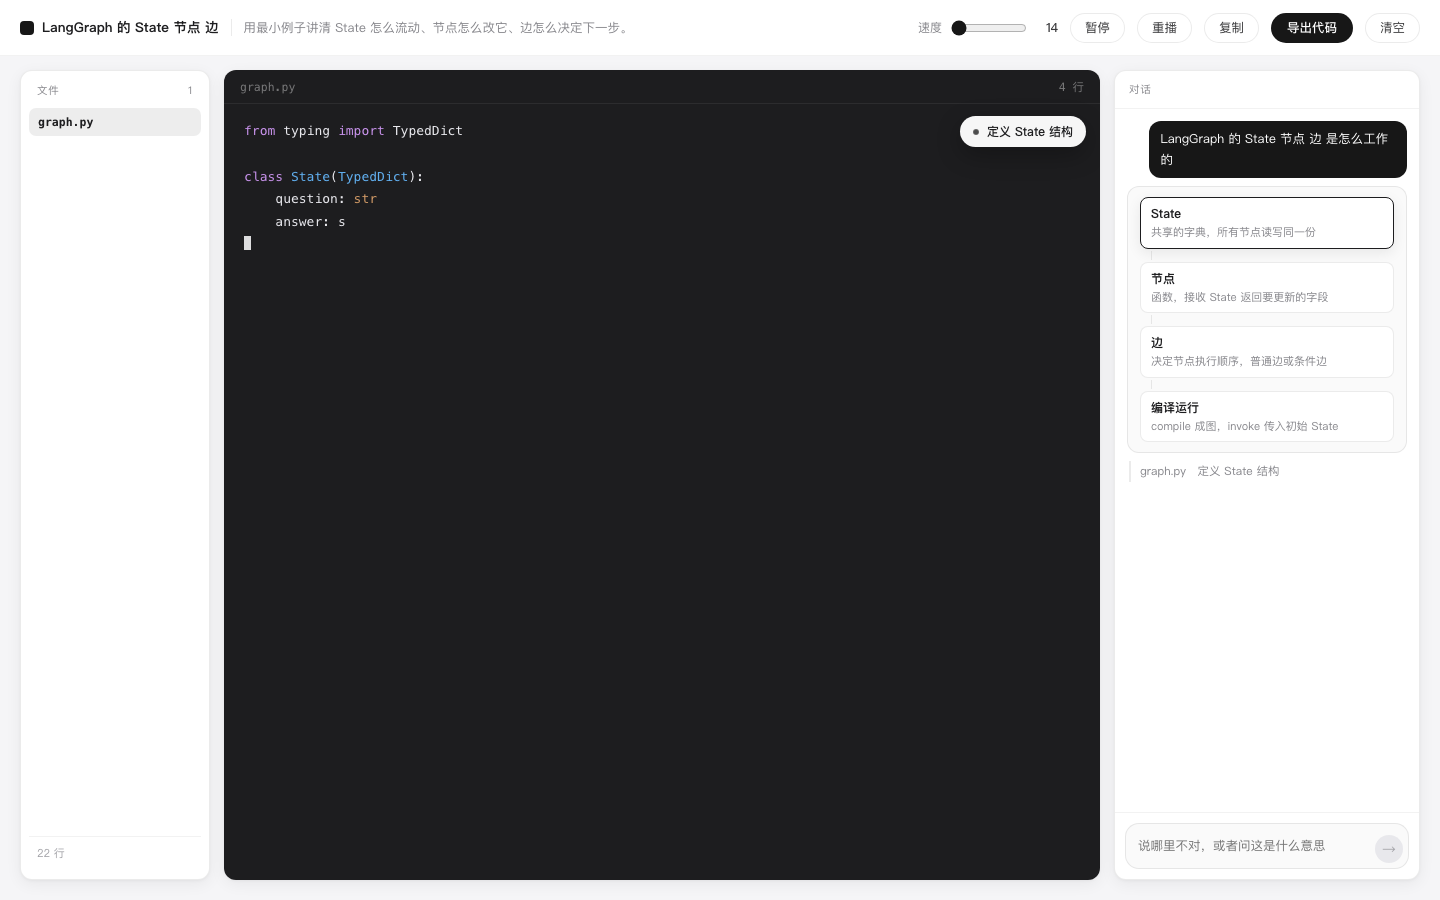
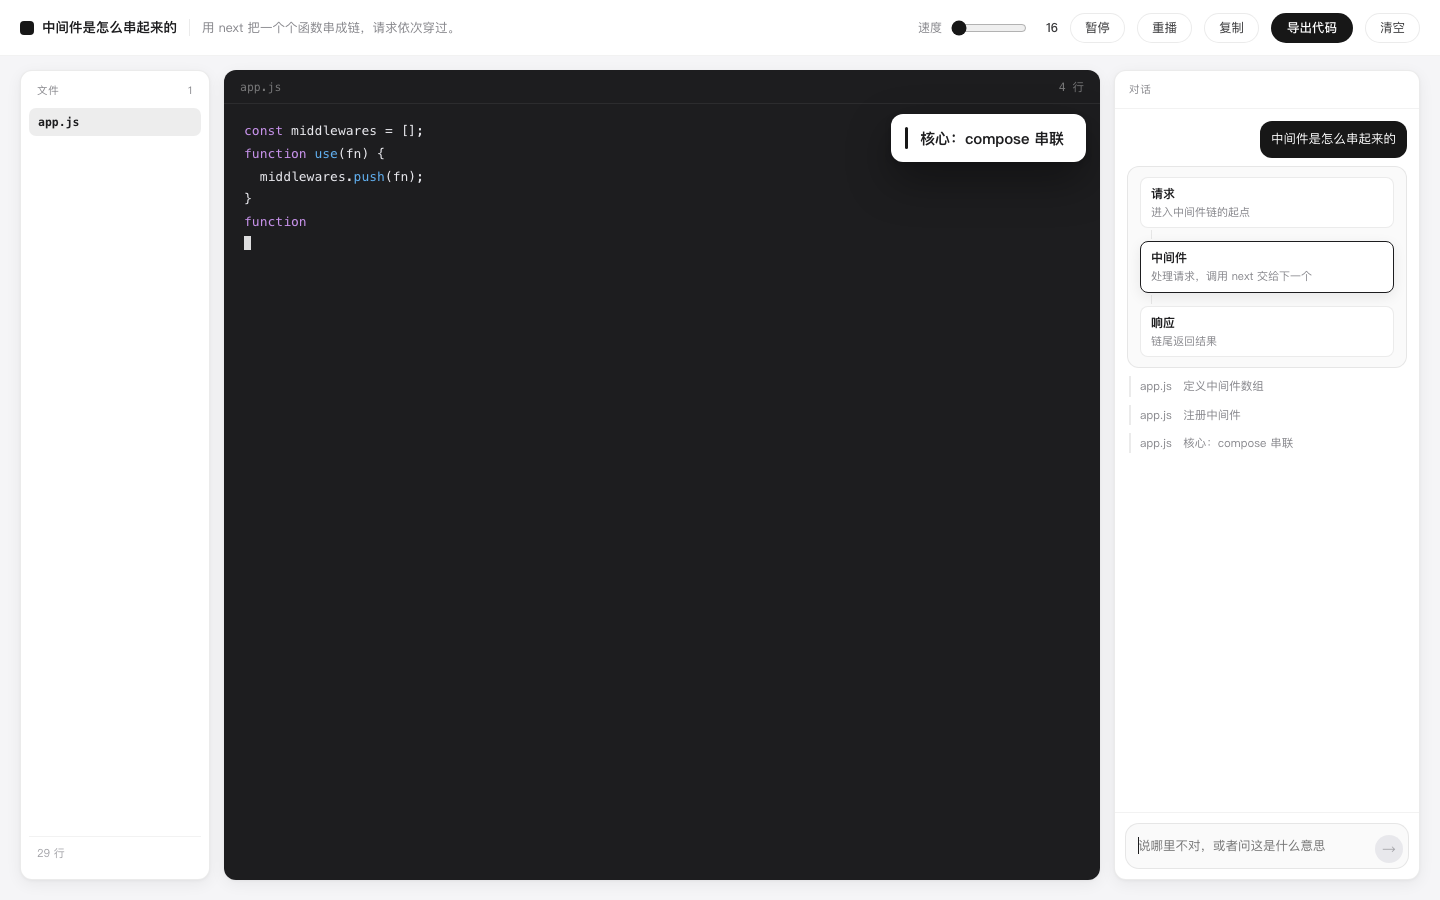
style: 步骤浮层做大、换掉胶囊圆角、加了从下往上顶的切换动画
- 字号 12 → 15、内边距加大、圆角 999px → 12px，左侧加一条深色竖条
- 切换时新的一步从下往上顶进来，旧的一句往上淡出（双向 420ms）
- 用 ref 记住上一句，避免首帧就播淡出动画

diff --git a/web/src/styles.css b/web/src/styles.css
@@ -859,30 +859,27 @@ button {
 }
 
 /* ---- 关系图：靠换行，不靠横向滚动 ---- */
-/* ---- 步骤浮层：贴在代码区右侧，滑出、随步骤变化、结束收起 ---- */
+/* ---- 步骤浮层：从右侧滑出，新的一步从下往上顶 ---- */
 .code-card {
   position: relative;
 }
 
 .step-toast {
   position: absolute;
-  top: 46px;
+  top: 44px;
   right: 14px;
-  max-width: 240px;
   display: flex;
   align-items: center;
-  gap: 8px;
-  padding: 7px 13px;
-  border-radius: 999px;
-  background: rgba(255, 255, 255, 0.96);
+  gap: 12px;
+  padding: 13px 22px 13px 14px;
+  border-radius: 12px;
+  background: #fff;
   color: var(--ink);
-  font-size: 12px;
-  font-weight: 500;
-  box-shadow: 0 8px 24px rgba(0, 0, 0, 0.28);
-  transform: translateX(calc(100% + 24px));
+  box-shadow: 0 18px 44px rgba(0, 0, 0, 0.38), 0 2px 6px rgba(0, 0, 0, 0.18);
+  transform: translateX(calc(100% + 26px));
   opacity: 0;
   pointer-events: none;
-  transition: transform 0.34s var(--ease), opacity 0.34s var(--ease);
+  transition: transform 0.42s var(--ease), opacity 0.42s var(--ease);
 }
 
 .step-toast.in {
@@ -890,19 +887,62 @@ button {
   opacity: 1;
 }
 
-.st-dot {
-  width: 6px;
-  height: 6px;
-  border-radius: 50%;
+.st-bar {
+  width: 3px;
+  height: 22px;
+  border-radius: 2px;
   background: var(--accent);
-  flex: 0 0 6px;
-  animation: breathe 1.4s var(--ease) infinite;
+  flex: 0 0 3px;
+}
+
+.st-stack {
+  position: relative;
+  min-width: 132px;
+  height: 22px;
+  display: flex;
+  align-items: center;
+  overflow: hidden;
 }
 
 .st-text {
-  overflow: hidden;
-  text-overflow: ellipsis;
+  font-size: 15px;
+  font-weight: 600;
+  letter-spacing: -0.1px;
   white-space: nowrap;
+  animation: st-in 0.42s var(--ease) both;
+}
+
+.st-ghost {
+  position: absolute;
+  left: 0;
+  font-size: 15px;
+  font-weight: 600;
+  letter-spacing: -0.1px;
+  white-space: nowrap;
+  color: var(--faint);
+  animation: st-out 0.42s var(--ease) both;
+}
+
+@keyframes st-in {
+  from {
+    transform: translateY(100%);
+    opacity: 0;
+  }
+  to {
+    transform: none;
+    opacity: 1;
+  }
+}
+
+@keyframes st-out {
+  from {
+    transform: none;
+    opacity: 1;
+  }
+  to {
+    transform: translateY(-100%);
+    opacity: 0;
+  }
 }
 
 .stage-waiting {

diff --git a/web/src/App.tsx b/web/src/App.tsx
@@ -103,6 +103,8 @@ export default function App() {
   const [peek, setPeek] = useState<string | null>(null);
 
   const lessonRef = useRef<Lesson | null>(null);
+  const stepLabelRef = useRef("");
+  const [ghostLabel, setGhostLabel] = useState("");
   const historyRef = useRef<{ role: string; content: string }[]>([]);
   const fixRoundRef = useRef(0);
   const loggedRef = useRef(-1);
@@ -351,6 +353,22 @@ export default function App() {
   const displayLabel = finished ? "讲完了" : stepLabel;
   const focus =
     lesson && !finished && stepIndex >= 0 ? lesson.steps[stepIndex]?.focus ?? -1 : -1;
+  useEffect(() => {
+    if (!running) {
+      stepLabelRef.current = "";
+      setGhostLabel("");
+      return;
+    }
+    const next = displayLabel;
+    if (stepLabelRef.current && stepLabelRef.current !== next) {
+      setGhostLabel(stepLabelRef.current);
+      stepLabelRef.current = next;
+      const timer = window.setTimeout(() => setGhostLabel(""), 420);
+      return () => window.clearTimeout(timer);
+    }
+    stepLabelRef.current = next;
+  }, [displayLabel, running]);
+
   const lastFlowIndex = messages.reduce(
     (acc, m, i) => (m.role === "flow" ? i : acc),
     -1
@@ -568,8 +586,17 @@ export default function App() {
             </div>
 
             <div className={`step-toast ${running ? "in" : ""}`}>
-              <span className="st-dot" />
-              <span className="st-text">{running ? displayLabel : "讲完了"}</span>
+              <span className="st-bar" />
+              <div className="st-stack">
+                {ghostLabel && (
+                  <span className="st-ghost" key={`ghost-${ghostLabel}`}>
+                    {ghostLabel}
+                  </span>
+                )}
+                <span className="st-text" key={`now-${displayLabel}`}>
+                  {displayLabel}
+                </span>
+              </div>
             </div>
           </div>
         </section>
